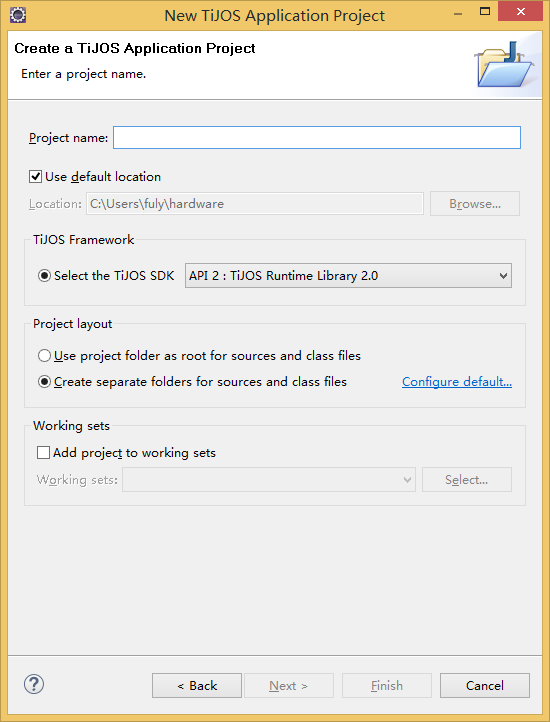
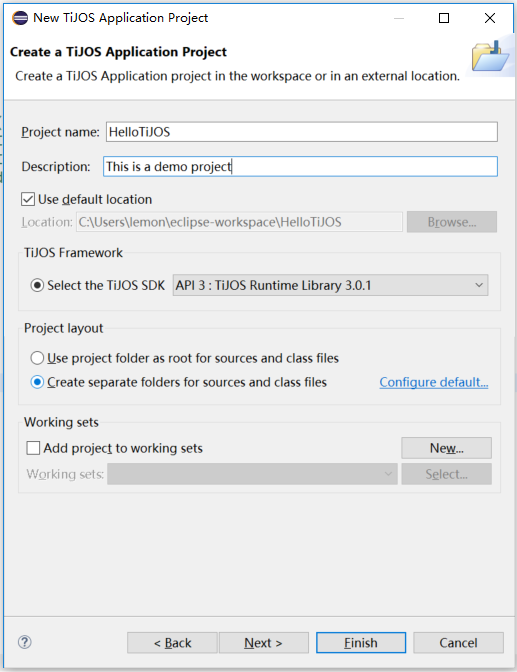
add more description

Changed region(s): [[0.0, 0.0, 1.0, 1.0], [0.7427, 0.5, 0.9284, 0.5938], [0.8975, 0.375, 0.9284, 0.4062]]

diff --git a/docs/tijos-development-guide/tijos_dev_studio.md b/docs/tijos-development-guide/tijos_dev_studio.md
@@ -49,13 +49,17 @@ TiStudio提供如下功能:
 
 ![20170914094054](.\img\20170914094054.png)
 
-1. 在工程配置界面输入工程名并选择TiJOS SDK版本后点击Next按钮下一步进入Settings界面或者Finish按钮完成创建
+1. 在工程配置界面输入工程名称及描述并选择TiJOS SDK版本后点击Next按钮下一步进入Settings界面或者Finish按钮完成创建
 
 ![20170914094744](.\img\20170914094744.png)
 
-1. 如果进入Settings界面，配置保持默认点击Finish按钮完成创建即可。
+2. 进入Settings界面
 
    ![20170914095239](.\img\20170914095239.png)
+
+3. 如果可能用到钛极OS提供基本传感器驱动，如LED, BUTTON, OLED等，可通过Libraries选项加入“TiJOS Driver Library ClassPath Container", 也可在用到时通过Java Build Path 设置中加入也可，如下图所示
+
+	![1528160152630](.\img\1528160152630.png)
 
 ## 调试运行
 
@@ -109,8 +113,14 @@ TiStudio提供如下功能:
 
 4. Run as --> TiJOS Application运行失败?
 
-   请检查TiDevManager中设备是否连接成功。
+   请检查TiDevManager中设备是否连接成功, 可进行手动连接。
 
 5. TiJOS LogCat不输出日志
 
    请检查TiDevManager中是否打开端口，打开端口后日志输出恢复正常。如仍无法正常输出日志，请尝试重启Eclipse。
+
+6. 提示tijos.framework.sensor 或 tijos.framework.transducer 不存在
+   请在Java Build Path中的Library中加入“TiJOS Driver Library ClassPath Container"，如下图所示：
+   ![1528160152630](.\img\1528160152630.png)
+
+

diff --git a/docs/tijos-development-guide/tijos_helloworld.md b/docs/tijos-development-guide/tijos_helloworld.md
@@ -23,15 +23,22 @@ Internet网络连接正常
 
 从弹出的新建项目类型中选择“TiJOS Development"下的”TiJOS Application Project":
 
-
-
 ![NewTiJOSProject_TiJOSProject](.\img\NewTiJOSProject_TiJOSProject.png)
 
-点击“Next" , 输入工程名称，JRE选择默认即可，点击“Finish" 即可完成工程创建。
+创建TiJOS Application Project的过程与标准Java过程类似，输入工程名称及描述 
 
-![NewTiJOSProject_ProjectName](.\img\NewTiJOSProject_ProjectName.png)
+![20170914094744](.\img\20170914094744.png)
 
-创建TiJOS Application Project的过程与标准Java过程类似， 一般只需输入工程名称其它选择默认即可完成工程的创建过程， 创建后的工程如下图所示：
+点击“Next" , 输入工程名称，JRE选择默认即可，点击Next 进入Settings,
+![20170914095239](.\img\20170914095239.png)
+
+由于在实际应用中可能用到钛极OS提供的基本传感器驱动，如LED, BUTTON, OLED等，可通过Libraries选项加入“TiJOS Driver Library ClassPath Container", 也可在用到时通过Java Build Path 设置中加入也可，如下图所示
+
+![1528160152630](.\img\1528160152630.png)
+
+点击“Finish" 即可完成工程创建。
+
+创建后的工程如下图所示：
 
 ![NewTiJOSProject_Tree](.\img\NewTiJOSProject_Tree.png)
 
